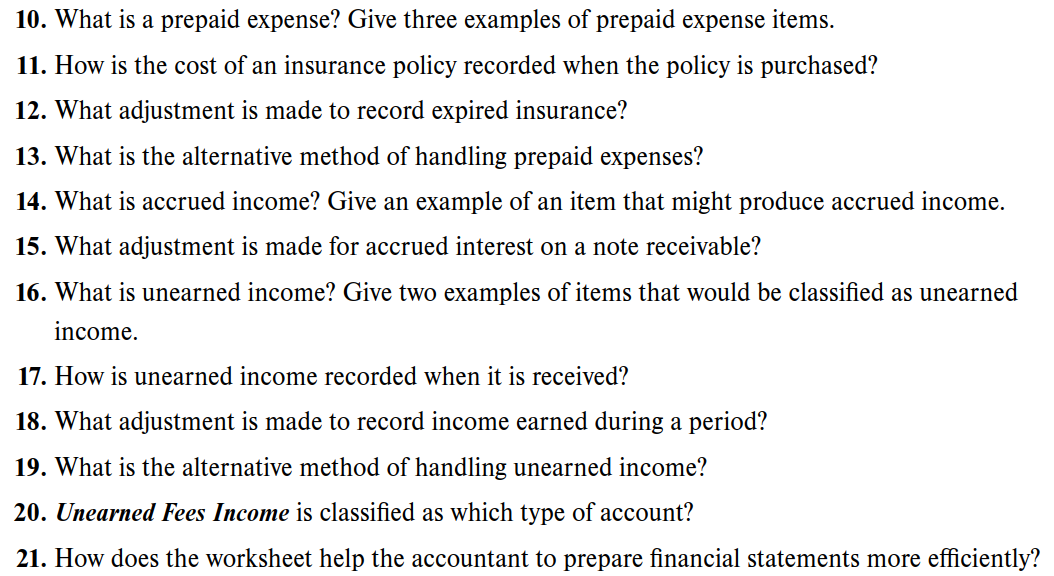
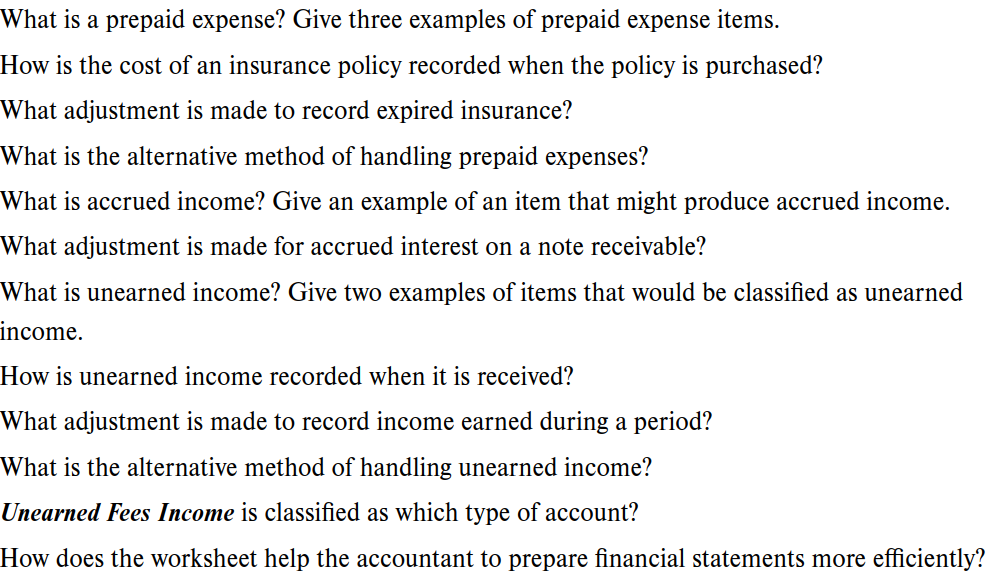
chap 12 mods

diff --git a/_pages/chap12-accural,deferrals.worksheets.md b/_pages/chap12-accural,deferrals.worksheets.md
@@ -4,11 +4,42 @@ title: 12-Accruals, Deferrals, & the Worksheet
 --- 
 
 
-### Questions
+Objuectives:
 
-![](/assets/mc-graw-accounting-course/chap12-accurals/9.questions1-9.png)
+1. Understand 10-column worksheet.
+1. Determine the adjustment for merchandise inventory, and enter the adjustment on the worksheet
+1. Compute adjustments for accrued & prepaid expense items, make worksheet adjustments.
+1. Compute adjustments for accrued and deferred income items, make worksheet adjustments.
+2. Define the accounting terms.
 
-![](/assets/mc-graw-accounting-course/chap12-accurals/10.questions10-19.png)
+
+### Discussion Questions
+
+1. What adjustment is made to record the estimated expense for uncollectible accounts?
+2. When a specific account receivable is deemed uncollectible, it is written off by debiting and crediting ____.
+3. Income Summary amounts are extended to which statement columns on the worksheet?
+4. Why is depreciation recorded?
+5. What types of assets are subject to depreciation? Give three examples of such assets.
+6. Explain the meaning of the following terms that relate to depreciation:
+- Salvage value
+- Depreciable base
+- Useful life
+- Straight-line method
+7. What adjustment is made for depreciation on office equipment?
+8. What is an accrued expense? Give three examples of items that often become accrued expenses.
+9. What adjustment is made to record accrued salaries?
+1. What is a prepaid expense? Give three examples of prepaid expense items.
+1. How is the cost of an insurance policy recorded when the policy is purchased?
+1. What adjustment is made to record expired insurance?
+1. What is the alternative method of handling prepaid expenses?
+1. What is accrued income? Give an example of an item that might produce accrued income.
+1. What adjustment is made for accrued interest on a note receivable?
+1. 1. What is unearned income? Give two examples of items that would be classified as unearned income.
+1. How is unearned income recorded when it is received?
+1. What adjustment is made to record income earned during a period?
+1. What is the alternative method of handling unearned income?
+1. Unearned Fees Income is classified as which type of account?
+1. ow does the worksheet help the accountant to prepare financial statements more efficiently?1. 
 
 ---
 
@@ -41,6 +72,7 @@ Prepaid assets and both accrued income and unearned income involve payments made
 
 Accrual basis - A system of accounting by which all revenues and expenses are matched and reported on financial statements for the applicable period, regardless of when the cash related to the transaction is received or paid
 
+1-objectives:  
 ![](/assets/mc-graw-accounting-course/chap12-accurals/1-objectives.png)
 
 ![](/assets/mc-graw-accounting-course/chap12-accurals/3.accrual.act.png)
